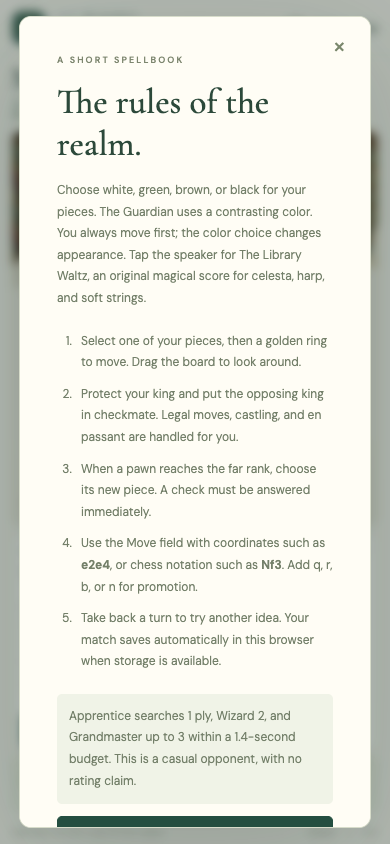
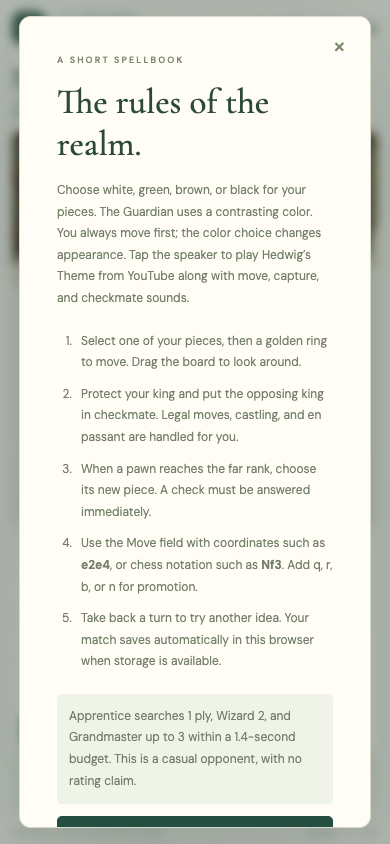
.

Changed region(s): [[0.1538, 0.2773, 0.8308, 0.3697]]

diff --git a/pocs/chess-astra-6-poc/src/main.ts b/pocs/chess-astra-6-poc/src/main.ts
@@ -26,7 +26,8 @@ app.innerHTML = `
     <div class="intro"><div><div class="eyebrow"><span></span> THE ENCHANTED CHESS CLUB</div><h1>Make your move.<br><em>Leave a little magic.</em></h1><p>A timeless game, in a world a little less ordinary.</p></div><div class="edition"><span>EST. IN ANOTHER REALM</span><div>32 pieces. Infinite possibilities.</div><span class="edition-line"></span></div></div>
     <div class="game-layout" id="game-layout">
       <section class="arena" aria-label="Chess table">
-        <div class="arena-top"><span class="room-label"><span class="live-dot"></span> HOGWARTS · THE LIBRARY</span><span class="room-meta" id="music-status">CELESTA & STRINGS · SOUND OFF</span></div>
+        <div class="arena-top"><span class="room-label"><span class="live-dot"></span> HOGWARTS · THE LIBRARY</span><span class="room-meta" id="music-status">HEDWIG’S THEME · SOUND OFF</span></div>
+        <iframe id="music-player" title="Hedwig’s Theme on YouTube" allow="autoplay; encrypted-media" hidden></iframe>
         <div id="scene"><div class="scene-caption"><span>✧</span> Among ancient books, a new story unfolds.</div></div>
         <section class="match-result" id="match-result" role="status" aria-labelledby="result-title" hidden>
           <span class="result-crown" aria-hidden="true">♔</span>
@@ -46,10 +47,11 @@ app.innerHTML = `
     </div>
     <footer><span>CRAFTED FOR THE LOVE OF THE GAME.</span><span class="footer-center">Strategy is the real magic.</span><span>HUMAN <span class="footer-cross">×</span> CPU</span></footer>
   </main>
-  <dialog id="guide"><button class="dialog-close" aria-label="Close guide">×</button><div class="eyebrow">A SHORT SPELLBOOK</div><h2>The rules of the realm.</h2><p>Choose white, green, brown, or black for your pieces. The Guardian uses a contrasting color. You always move first; the color choice changes appearance. Tap the speaker for The Library Waltz, an original magical score for celesta, harp, and soft strings.</p><ol><li>Select one of your pieces, then a golden ring to move. Drag the board to look around.</li><li>Protect your king and put the opposing king in checkmate. Legal moves, castling, and en passant are handled for you.</li><li>When a pawn reaches the far rank, choose its new piece. A check must be answered immediately.</li><li>Use the Move field with coordinates such as <strong>e2e4</strong>, or chess notation such as <strong>Nf3</strong>. Add q, r, b, or n for promotion.</li><li>Take back a turn to try another idea. Your match saves automatically in this browser when storage is available.</li></ol><p class="dialog-note">Apprentice searches 1 ply, Wizard 2, and Grandmaster up to 3 within a 1.4-second budget. This is a casual opponent, with no rating claim.</p><button class="primary-button dialog-done">Let the game begin ${icon('arrow')}</button></dialog>
+  <dialog id="guide"><button class="dialog-close" aria-label="Close guide">×</button><div class="eyebrow">A SHORT SPELLBOOK</div><h2>The rules of the realm.</h2><p>Choose white, green, brown, or black for your pieces. The Guardian uses a contrasting color. You always move first; the color choice changes appearance. Tap the speaker to play Hedwig’s Theme from YouTube along with move, capture, and checkmate sounds.</p><ol><li>Select one of your pieces, then a golden ring to move. Drag the board to look around.</li><li>Protect your king and put the opposing king in checkmate. Legal moves, castling, and en passant are handled for you.</li><li>When a pawn reaches the far rank, choose its new piece. A check must be answered immediately.</li><li>Use the Move field with coordinates such as <strong>e2e4</strong>, or chess notation such as <strong>Nf3</strong>. Add q, r, b, or n for promotion.</li><li>Take back a turn to try another idea. Your match saves automatically in this browser when storage is available.</li></ol><p class="dialog-note">Apprentice searches 1 ply, Wizard 2, and Grandmaster up to 3 within a 1.4-second budget. This is a casual opponent, with no rating claim.</p><button class="primary-button dialog-done">Let the game begin ${icon('arrow')}</button></dialog>
   <dialog id="restart"><div class="eyebrow">A FRESH CHAPTER</div><h2>Begin a new game?</h2><p>Your current match will be replaced.</p><div class="dialog-actions"><button class="quiet-button" id="cancel-restart">Keep playing</button><button class="primary-button" id="confirm-restart">New game</button></div></dialog>
   <dialog id="promotion"><div class="eyebrow">A LITTLE TRANSFORMATION</div><h2>Choose your new piece.</h2><div class="promotion-options"><button data-piece="q">♕<span>Queen</span></button><button data-piece="r">♖<span>Rook</span></button><button data-piece="b">♗<span>Bishop</span></button><button data-piece="n">♘<span>Knight</span></button></div></dialog>
 `;
+const song = '3mBk_rV-oww';
 const $ = <T extends HTMLElement = HTMLElement>(id: string) => document.getElementById(id) as T;
 let game = new Chess();
 let selected: Square | null = null;
@@ -122,8 +124,9 @@ function render(move?: Move, sync = true) {
   }
   const result = $('match-result');
   const wasHidden = result.hidden;
-  $('result-winner').textContent = game.turn() === 'b' ? 'You win. The Castle Guardian is defeated.' : 'The Castle Guardian wins. Try another duel.';
-  result.hidden = !game.isCheckmate();
+  $('result-title').textContent = game.isCheckmate() ? 'Checkmate' : game.isStalemate() ? 'Stalemate' : 'Draw';
+  $('result-winner').textContent = game.isCheckmate() ? game.turn() === 'b' ? 'You win. The Castle Guardian is defeated.' : 'The Castle Guardian wins. Try another duel.' : `${text} No one wins this duel.`;
+  result.hidden = !game.isGameOver();
   if (wasHidden && !result.hidden) $('result-new-game').focus({ preventScroll: true });
   report(title, text);
   $('board-turn').innerHTML = `<span class="live-dot ${thinking ? 'thinking' : ''}"></span>${turn}`;
@@ -265,15 +268,16 @@ function updateSoundControl() {
   $('sound').setAttribute('aria-label', label);
   $('sound').setAttribute('title', label);
   $('sound').classList.toggle('active', sound);
-  $('music-status').textContent = sound ? `${audio.title} · NOW PLAYING` : 'CELESTA & STRINGS · SOUND OFF';
+  $('music-status').textContent = sound ? 'HEDWIG’S THEME · NOW PLAYING' : 'HEDWIG’S THEME · SOUND OFF';
+  const player = $<HTMLIFrameElement>('music-player');
+  player.hidden = !sound;
+  player.src = sound ? `https://www.youtube-nocookie.com/embed/${song}?autoplay=1&loop=1&playlist=${song}` : 'about:blank';
 }
 $('sound').onclick = async () => {
   sound = !sound;
   updateSoundControl();
-  try {
-    await audio.setEnabled(sound);
-    updateSoundControl();
-  } catch {
+  try { await audio.setEnabled(sound); }
+  catch {
     sound = false;
     await audio.setEnabled(false);
     updateSoundControl();

diff --git a/pocs/chess-astra-6-poc/tests/game.spec.ts b/pocs/chess-astra-6-poc/tests/game.spec.ts
@@ -42,6 +42,7 @@ test('renders the hall, plays against CPU, saves, undoes and restarts', async ({
 });
 
 test('board can be clicked, rotated, viewed overhead and muted', async ({ page }) => {
+  await page.route(/youtube/, route => route.abort());
   await page.goto('/');
   await page.getByRole('button', { name: 'Switch to overhead view' }).click();
   await expect(page.getByRole('button', { name: 'Switch to perspective view' })).toBeVisible();
@@ -145,6 +146,18 @@ test('restored repetition ends the match as a draw', async ({ page }) => {
   await seed(page, ['Nf3', 'Nf6', 'Ng1', 'Ng8', 'Nf3', 'Nf6', 'Ng1', 'Ng8']);
   await expect(page.locator('#status-text')).toHaveText('Draw by threefold repetition.');
   await expect(page.getByRole('textbox', { name: 'Move notation' })).toBeDisabled();
+  await expect(page.getByRole('heading', { name: 'Draw', exact: true })).toBeVisible();
+  await expect(page.locator('#result-winner')).toHaveText('Draw by threefold repetition. No one wins this duel.');
+});
+
+test('stalemate shows a result card so the finished match never looks frozen', async ({ page }) => {
+  await seed(page, ['e3', 'a5', 'Qh5', 'Ra6', 'Qxa5', 'h5', 'h4', 'Rah6', 'Qxc7', 'f6', 'Qxd7+', 'Kf7', 'Qxb7', 'Qd3', 'Qxb8', 'Qh7', 'Qxc8', 'Kg6', 'Qe6']);
+  await expect(page.locator('#status-text')).toHaveText('Stalemate. There are no legal moves.');
+  await expect(page.getByRole('heading', { name: 'Stalemate', exact: true })).toBeVisible();
+  await expect(page.locator('#result-new-game')).toBeFocused();
+  await page.locator('#result-new-game').click();
+  await expect(page.locator('#move-count')).toHaveText('0 MOVES');
+  await expect(page.locator('#match-result')).toBeHidden();
 });
 
 test('the page stays fixed across desktop, mobile and landscape viewports', async ({ page }) => {
@@ -170,35 +183,22 @@ test('the page stays fixed across desktop, mobile and landscape viewports', asyn
   }
 });
 
-test('library music contains audio, loops, and stops when muted', async ({ page }) => {
-  await page.addInitScript(() => {
-    const state = { starts: 0, stops: 0, duration: 0, peak: 0, loop: false };
-    Object.assign(window, { musicCheck: state });
-    const start = AudioBufferSourceNode.prototype.start;
-    const stop = AudioBufferSourceNode.prototype.stop;
-    AudioBufferSourceNode.prototype.start = function (...args) {
-      state.starts++;
-      state.duration = this.buffer?.duration || 0;
-      state.loop = this.loop;
-      const samples = this.buffer?.getChannelData(0);
-      if (samples) for (let i = 0; i < samples.length; i += 100) state.peak = Math.max(state.peak, Math.abs(samples[i]));
-      return start.apply(this, args);
-    };
-    AudioBufferSourceNode.prototype.stop = function (...args) {
-      state.stops++;
-      return stop.apply(this, args);
-    };
-  });
+test('hedwig theme streams from youtube in a looping player that stops when muted', async ({ page }) => {
+  await page.route(/youtube/, route => route.abort());
   await page.goto('/');
+  const player = page.locator('#music-player');
+  await expect(player).toBeHidden();
   await page.getByRole('button', { name: 'Play library music and sound' }).click();
-  const state = () => page.evaluate(() => (window as unknown as { musicCheck: { starts: number; stops: number; duration: number; peak: number; loop: boolean } }).musicCheck);
-  await expect.poll(async () => (await state()).starts).toBe(1);
-  expect((await state()).duration).toBeGreaterThan(20);
-  expect((await state()).peak).toBeGreaterThan(0.01);
-  expect((await state()).peak).toBeLessThan(1);
-  expect((await state()).loop).toBe(true);
+  await expect(player).toBeVisible();
+  const src = new URL((await player.getAttribute('src'))!);
+  expect(src.pathname).toBe('/embed/3mBk_rV-oww');
+  expect(src.searchParams.get('autoplay')).toBe('1');
+  expect(src.searchParams.get('loop')).toBe('1');
+  expect(src.searchParams.get('playlist')).toBe('3mBk_rV-oww');
+  await expect(page.locator('#music-status')).toHaveText('HEDWIG’S THEME · NOW PLAYING');
   await page.getByRole('button', { name: 'Mute library music and sound' }).click();
-  await expect.poll(async () => (await state()).stops).toBe(1);
+  await expect(player).toBeHidden();
+  await expect(player).toHaveAttribute('src', 'about:blank');
   await expect(page.locator('#sound')).toHaveAttribute('aria-pressed', 'false');
 });
 
@@ -218,6 +218,7 @@ test('a capture and a fallen king play death sounds timed to their animations', 
       return source.call(this, when, ...args);
     };
   });
+  await page.route(/youtube/, route => route.abort());
   await seed(page, ['e4', 'e5', 'Qh5', 'Nc6', 'Bc4', 'Nf6']);
   await page.getByRole('button', { name: 'Play library music and sound' }).click();
   await expect(page.getByRole('button', { name: 'Mute library music and sound' })).toBeVisible();

diff --git a/pocs/chess-astra-6-poc/src/audio.ts b/pocs/chess-astra-6-poc/src/audio.ts
@@ -1,86 +1,11 @@
-const beat = 0.48;
-const melody = [76, 79, 83, 81, 78, 74, 79, 83, 86, 84, 83, 79, 81, 77, 74, 76, 79, 83, 78, 75, 71, 76, 78, 83, 88, 86, 83, 84, 81, 77, 83, 79, 76, 81, 78, 74, 79, 83, 86, 84, 81, 77, 78, 75, 71, 76, 83, 88];
-const chords = [[52, 55, 59], [50, 54, 57], [48, 52, 55], [55, 59, 62], [53, 57, 60], [48, 52, 55], [47, 51, 54], [52, 55, 59]];
-
-async function score(sampleRate: number): Promise<AudioBuffer> {
-  const duration = melody.length * beat;
-  const offline = new OfflineAudioContext(2, Math.ceil((duration + 2) * sampleRate), sampleRate);
-  const reverb = offline.createConvolver();
-  const impulse = offline.createBuffer(2, sampleRate * 2, sampleRate);
-  for (let channel = 0; channel < 2; channel++) {
-    const data = impulse.getChannelData(channel);
-    for (let i = 0; i < data.length; i++) data[i] = Math.sin(i * 78.233 + channel * 23.17) * Math.pow(1 - i / data.length, 3) * 0.2;
-  }
-  reverb.buffer = impulse;
-  const wet = offline.createGain();
-  wet.gain.value = 0.22;
-  reverb.connect(wet).connect(offline.destination);
-  const note = (midi: number, time: number, length: number, volume: number, type: OscillatorType, pan: number, partial = 1) => {
-    const oscillator = offline.createOscillator();
-    const envelope = offline.createGain();
-    const stereo = offline.createStereoPanner();
-    oscillator.type = type;
-    oscillator.frequency.value = 440 * 2 ** ((midi - 69) / 12) * partial;
-    stereo.pan.value = pan;
-    envelope.gain.setValueAtTime(0, time);
-    envelope.gain.linearRampToValueAtTime(volume, time + (type === 'triangle' ? 0.18 : 0.008));
-    envelope.gain.exponentialRampToValueAtTime(0.0001, time + length);
-    oscillator.connect(envelope).connect(stereo);
-    stereo.connect(offline.destination);
-    stereo.connect(reverb);
-    oscillator.start(time);
-    oscillator.stop(time + length);
-  };
-  melody.forEach((midi, i) => {
-    const time = i * beat;
-    note(midi, time, 1.7, 0.12, 'sine', -0.15);
-    note(midi, time, 0.9, 0.035, 'sine', 0.2, 2);
-    note(midi, time, 0.4, 0.012, 'sine', 0, 3.01);
-    if (i % 3 === 0) {
-      const chord = chords[Math.floor(i / 3) % chords.length];
-      chord.forEach((tone, index) => {
-        note(tone, time, beat * 3, 0.019, 'triangle', index / 2 - 0.5);
-        note(tone + 12, time + index * beat, 0.7, 0.04, 'sine', 0.4);
-      });
-      note(chord[0] - 12, time, 1.2, 0.065, 'sine', 0);
-    }
-  });
-  const rendered = await offline.startRendering();
-  const length = Math.round(duration * sampleRate);
-  const loop = new AudioBuffer({ length, numberOfChannels: 2, sampleRate });
-  for (let channel = 0; channel < 2; channel++) {
-    const source = rendered.getChannelData(channel);
-    const target = loop.getChannelData(channel);
-    target.set(source.subarray(0, length));
-    for (let i = length; i < source.length; i++) target[i - length] += source[i];
-  }
-  return loop;
-}
-
-async function theme(context: AudioContext) {
-  try {
-    const response = await fetch(`${import.meta.env.BASE_URL}opening-theme.mp3`);
-    if (response.ok && response.headers.get('content-type')?.startsWith('audio/')) return { buffer: await context.decodeAudioData(await response.arrayBuffer()), title: 'OPENING THEME' };
-  } catch {}
-  return { buffer: await score(context.sampleRate), title: 'THE LIBRARY WALTZ' };
-}
-
 export class GameAudio {
-  title = 'THE LIBRARY WALTZ';
   private context: AudioContext | null = null;
   private master: GainNode | null = null;
-  private music: AudioBufferSourceNode | null = null;
-  private track: Promise<{ buffer: AudioBuffer; title: string }> | null = null;
   private hiss: AudioBuffer | null = null;
   private enabled = false;
-  private generation = 0;
 
   async setEnabled(enabled: boolean) {
     this.enabled = enabled;
-    const generation = ++this.generation;
-    this.music?.stop();
-    this.music?.disconnect();
-    this.music = null;
     if (!enabled) {
       if (this.master && this.context) this.master.gain.setTargetAtTime(0, this.context.currentTime, 0.025);
       return;
@@ -91,15 +16,6 @@ export class GameAudio {
     this.master.connect(this.context.destination);
     this.master.gain.value = 0.65;
     await this.context.resume();
-    this.track ??= theme(this.context);
-    const { buffer, title } = await this.track;
-    this.title = title;
-    if (!this.enabled || generation !== this.generation) return;
-    this.music = this.context.createBufferSource();
-    this.music.buffer = buffer;
-    this.music.loop = true;
-    this.music.connect(this.master);
-    this.music.start();
   }
 
   move() {

diff --git a/pocs/chess-astra-6-poc/src/style.css b/pocs/chess-astra-6-poc/src/style.css
@@ -298,6 +298,18 @@ p {
   letter-spacing:1.4px
 }
 
+#music-player {
+  position:absolute;
+  top:62px;
+  right:26px;
+  z-index:1;
+  width:200px;
+  height:113px;
+  border:1px solid #e1d7c4;
+  border-radius:6px;
+  box-shadow:0 8px 24px #263f3526
+}
+
 #scene {
   position:relative;
   width:100%;
@@ -1075,6 +1087,10 @@ dialog li {
   .arena-top {
     top:12px;
     left:14px
+  }
+  #music-player {
+    top:44px;
+    right:14px
   }
   .sidebar {
     display:grid;

diff --git a/pocs/chess-astra-6-poc/README.md b/pocs/chess-astra-6-poc/README.md
@@ -19,8 +19,7 @@ A playable, wizard-inspired 3D chess game for one human against a local CPU. Cho
 - Click pieces and destinations, or enter coordinate moves and standard algebraic notation with a keyboard.
 - Orbit, zoom, rotate the board, or switch to an overhead camera. Near-side library walls cut away when the camera moves behind them so they do not obscure the board.
 - Undo a human/CPU turn, start a fresh match, and restore the current match after a reload.
-- The speaker control plays **The Library Waltz**, an original 23-second looping score with celesta, harp arpeggios, bass, and soft strings, alongside move, capture, and checkmate sounds. Tap again to mute. Audio starts after this interaction; the score is synthesized locally and is not a film recording.
-- To play your own opening theme instead, place a copy you are licensed to use at `public/opening-theme.mp3`. It loops in place of the waltz and the label reads **OPENING THEME**. The file is gitignored so it is never published with the repository.
+- The speaker control opens a small looping YouTube player for **Hedwig’s Theme** in the corner of the board, alongside locally synthesized move, capture, and checkmate sounds. Tap again to mute and unload the player. The video id lives in the `song` constant in `src/main.ts`; the video must allow embedding for the player to start.
 - The full interface fits the browser viewport. Move history and game panels scroll internally on smaller screens, while the outer page stays fixed.
 - Reduced-motion preferences keep firelight and ambient effects still and suppress capture and king-fall animations.
 - A playable flat board appears when WebGL cannot initialize.
@@ -35,7 +34,7 @@ A playable, wizard-inspired 3D chess game for one human against a local CPU. Cho
 6. Captures trigger the defeated piece’s magical exit, including en passant captures.
 7. The Guardian searches the position in a Web Worker and returns its chosen move.
 8. The browser saves the complete move history, challenge level, and selected piece color after each change.
-9. Checkmate shows the winner and a New game button over the board. Restart immediately, or undo to revisit the position; draws keep the regular restart controls available.
+9. Checkmate shows the winner and a New game button over the board. Restart immediately, or undo to revisit the position; stalemates and draws show the same card with the reason, so a finished match never looks frozen.
 
 ## Architecture
 
@@ -111,7 +110,7 @@ TypeScript validation passed
 Production build passed
 ```
 
-Engine tests cover legal CPU replies at all levels, mate selection, terminal positions, budget fallback, search state preservation, repetition restoration, castling, en passant, underpromotion, and invalid saved moves. Browser tests cover a complete human/CPU turn, 3D board clicks, camera controls, audio toggling, save/restore, invalid input, restart confirmation, capture effects, checkmate, the guide, mobile layout, reduced motion, corrupt storage, WebGL fallback, promotion, interrupted turns, repetition draws, page overflow at eight desktop/mobile/landscape sizes, the music buffer’s audio signal, looping, and mute behavior, all four piece colors, preference persistence during a match, fullscreen play with the restart dialog, live player/CPU checkmates, and restarting from the result card on mobile and in fullscreen.
+Engine tests cover legal CPU replies at all levels, mate selection, terminal positions, budget fallback, search state preservation, repetition restoration, castling, en passant, underpromotion, and invalid saved moves. Browser tests cover a complete human/CPU turn, 3D board clicks, camera controls, audio toggling, save/restore, invalid input, restart confirmation, capture effects, checkmate, the guide, mobile layout, reduced motion, corrupt storage, WebGL fallback, promotion, interrupted turns, repetition draws, page overflow at eight desktop/mobile/landscape sizes, the YouTube player’s looping embed and mute behavior, capture and checkmate sound timing, stalemate results, all four piece colors, preference persistence during a match, fullscreen play with the restart dialog, live player/CPU checkmates, and restarting from the result card on mobile and in fullscreen.
 
 ## Contracts / APIs
 
@@ -135,7 +134,7 @@ There are no HTTP application APIs. These are the internal contracts:
 - **Square identifiers:** algebraic squares such as `e4` connect chess state, raycast targets, highlights, and 3D coordinates.
 - **Dedicated CPU worker:** iterative deepening with negamax, alpha-beta pruning, material values, move ordering, and simple positional evaluation keeps search isolated from rendering.
 - **Bounded difficulty:** Apprentice searches one ply, Wizard two, Grandmaster up to three within a 1.4-second soft budget. These names are flavor, not chess ratings. The time budget is checked between search operations and is not a hard real-time deadline.
-- **Local music buffer:** `src/audio.ts` renders a stereo waltz through `OfflineAudioContext`, wraps the reverb tail into the loop, and plays it through one stoppable audio source. Muting silences both music and move sounds; generation checks prevent overlapping playback after rapid toggles.
+- **Music and sound effects:** music streams from YouTube’s embedded player, which loops the video and is unloaded when muted. `src/audio.ts` synthesizes move, capture, and checkmate sounds with Web Audio oscillators and filtered noise, timing the checkmate impact to the king’s fall.
 - **Viewport layout:** a `100dvh` application shell allocates remaining height to the game grid. Explicit minimum sizes and internal overflow keep controls reachable on short screens.
 - **Short-lived effects:** defeated pieces and particles live independently of the updated board until their animation ends, then their geometry and effect materials are released.
 - **Cancellation:** undo, restart, and challenge changes terminate active search; pending CPU timers are also canceled.
